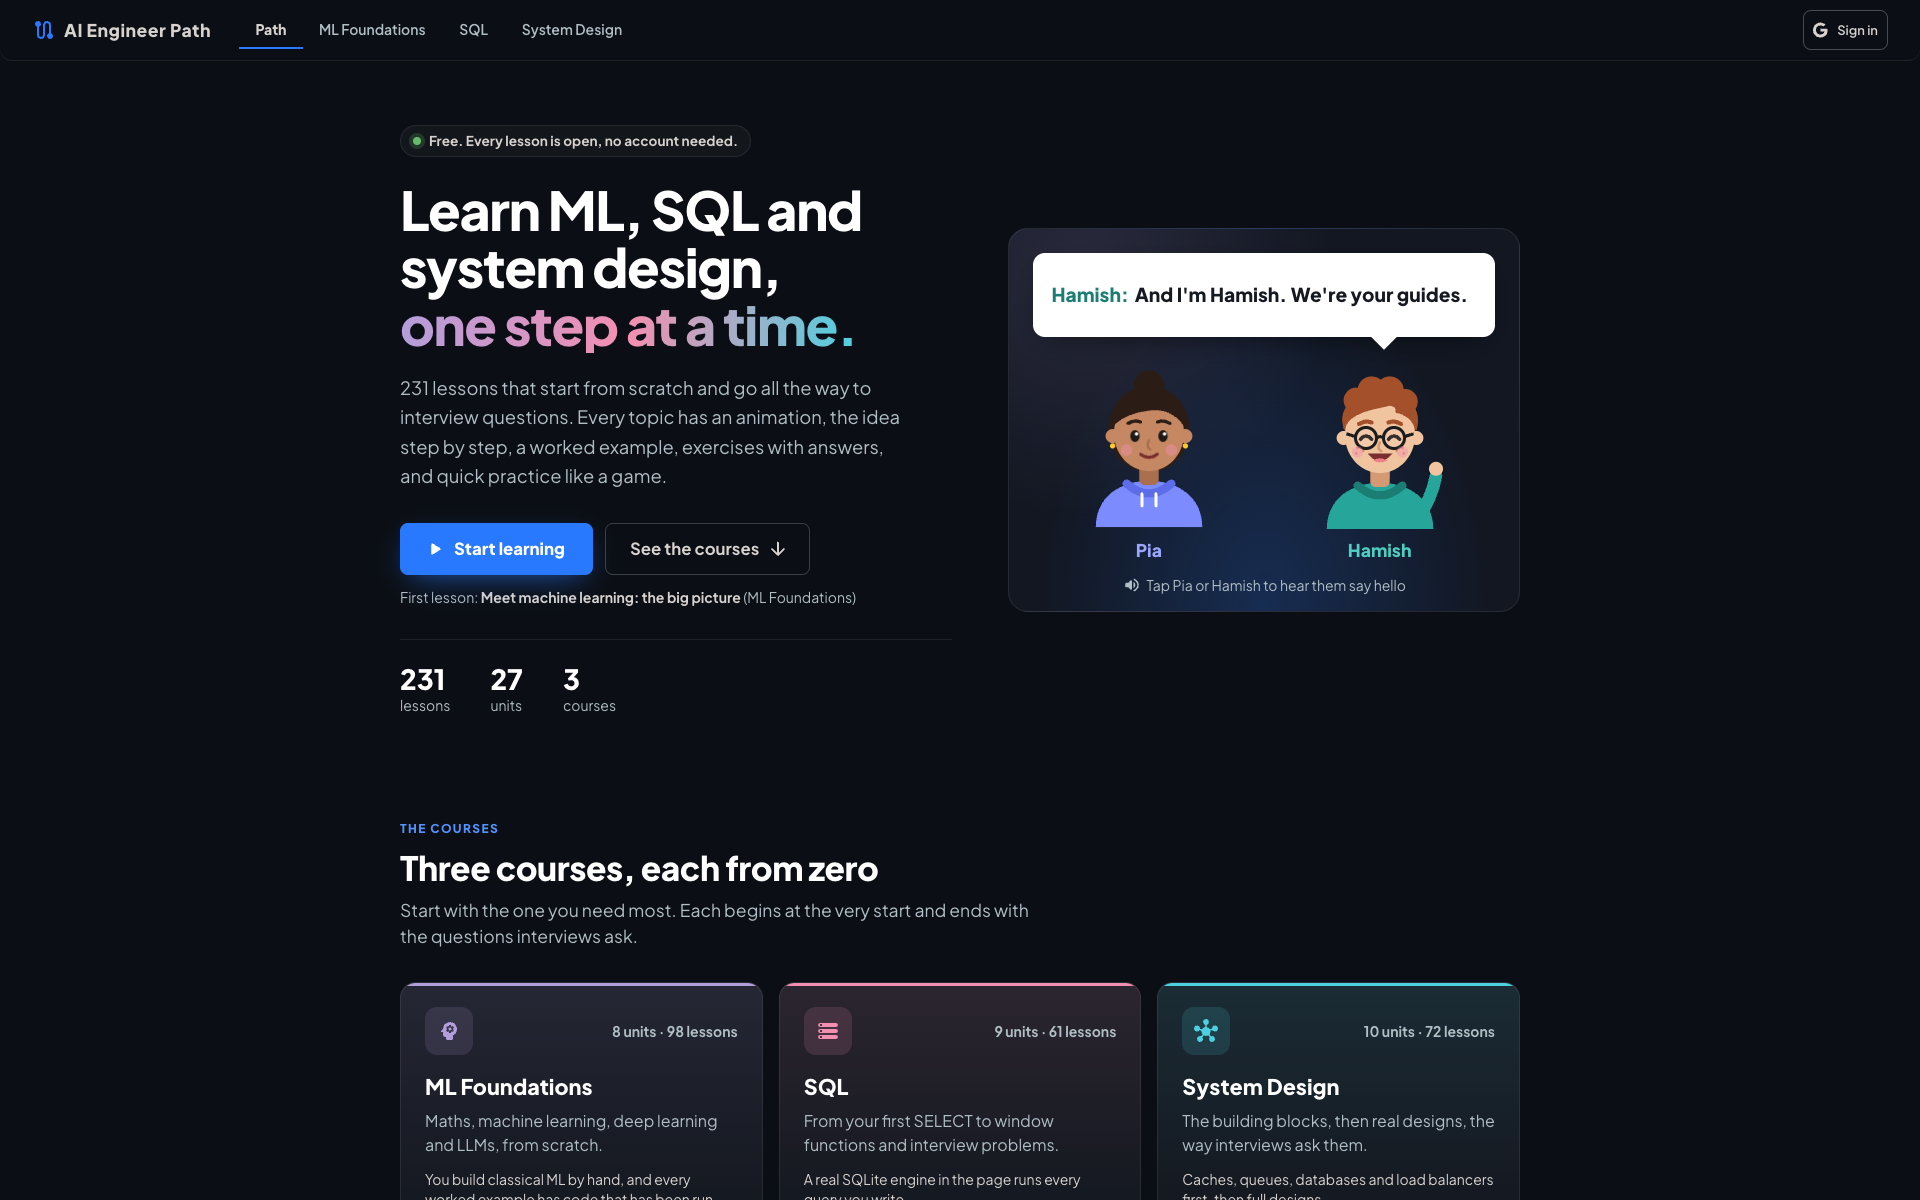
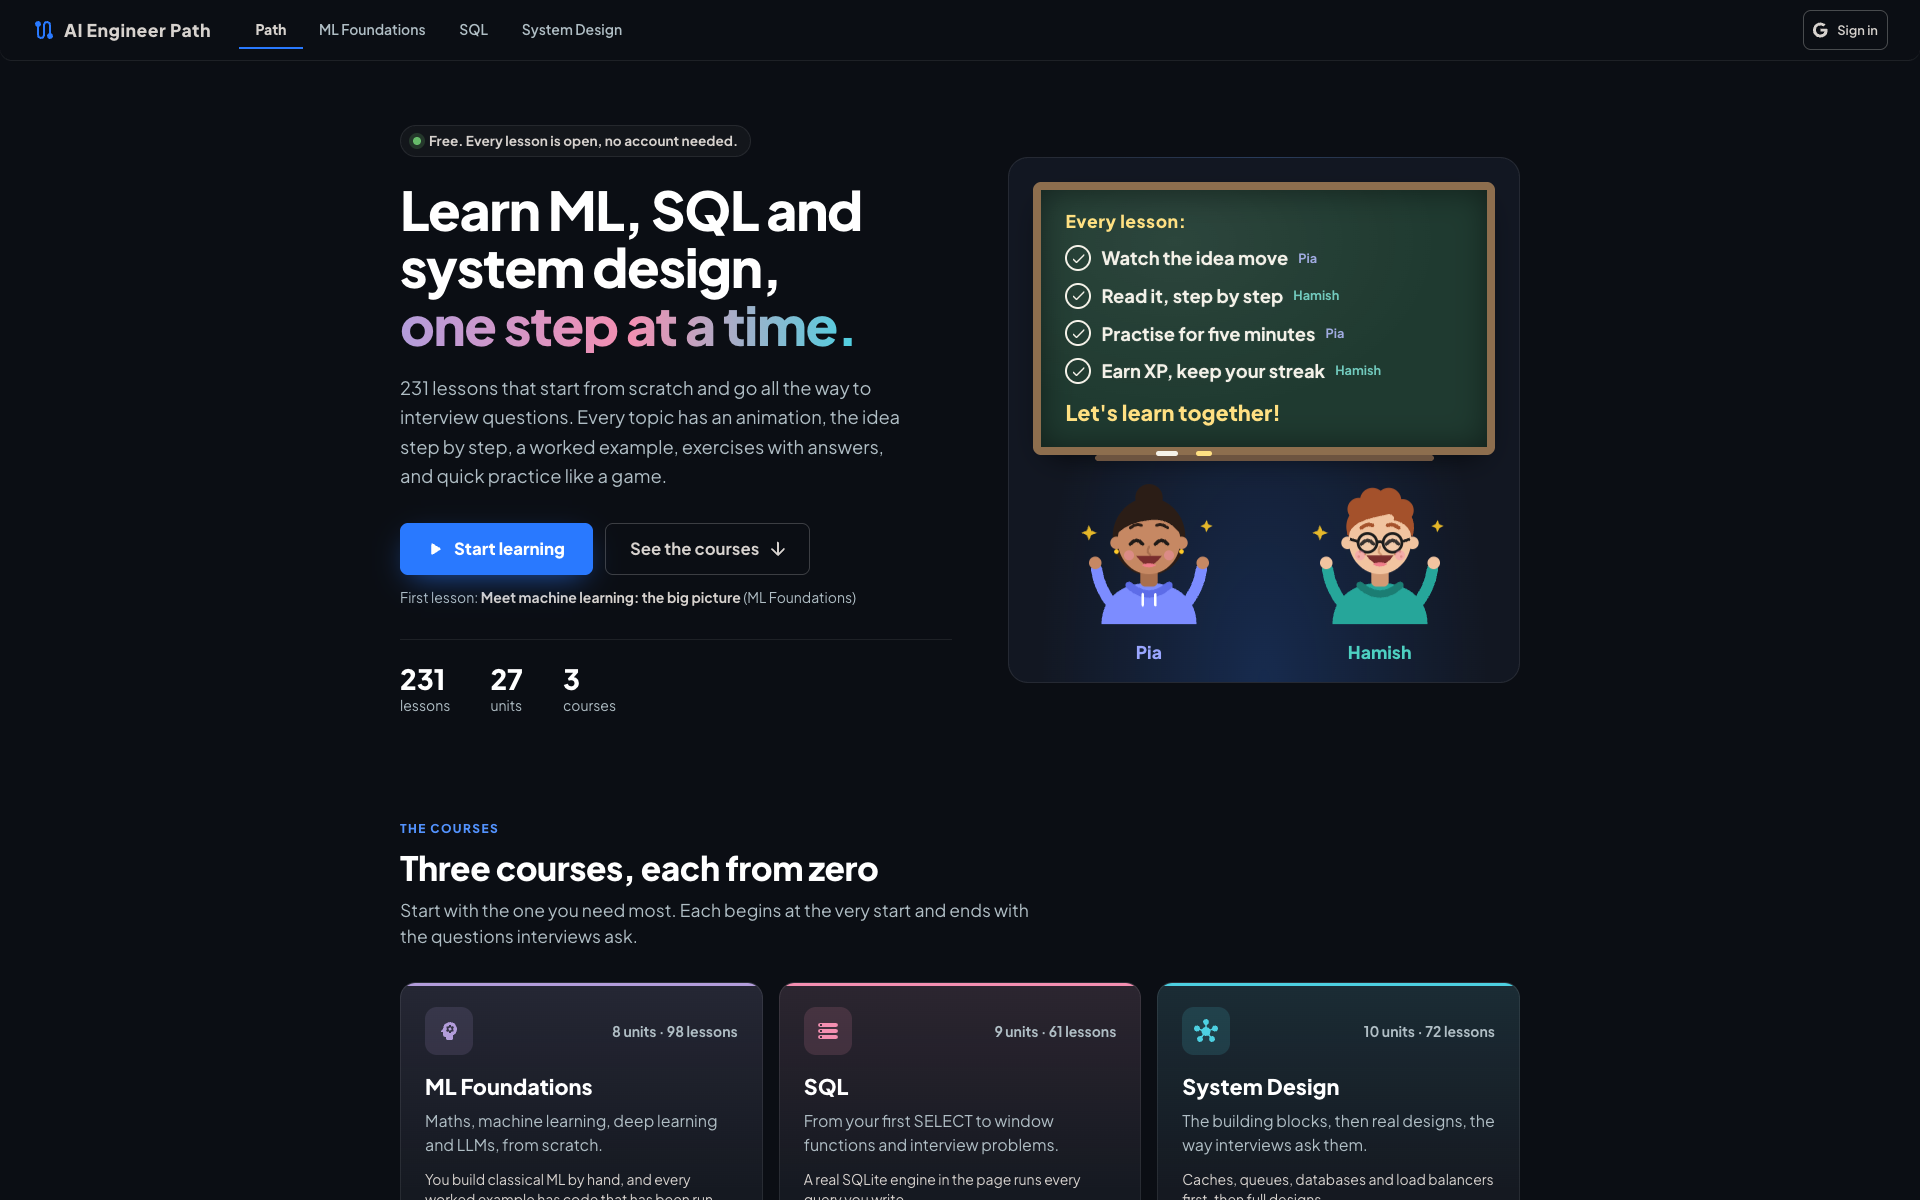
Front page: guides teach at a chalkboard

Changed region(s): [[0.5312, 0.1233, 0.7812, 0.5858]]

diff --git a/src/components/app/GuidesScene.tsx b/src/components/app/GuidesScene.tsx
@@ -1,134 +1,159 @@
-// The front page's guides: Pia and Hamish take turns to say what the site is,
-// each line filling their speech bubble while their mouth moves. Tap either to
-// hear them say hello in their own voice. Still, with the whole first line
-// shown, for anyone who asks their device for less motion.
+// The front page's guides, teaching at a chalkboard. Pia and Hamish take turns:
+// as each one talks (mouth moving, arm up to the board), their point is written
+// on the board in chalk. Then both cheer, the board is wiped, and it starts again.
+//
+// It tells its story without sound (browsers only play sound after a tap), but
+// tapping a guide still plays their hello. Anyone who asks their device for
+// less motion sees the whole board at once, with the guides still.
 
 import { useEffect, useState } from 'react';
 import { Box, ButtonBase, Stack, Typography } from '@mui/material';
-import VolumeUpRoundedIcon from '@mui/icons-material/VolumeUpRounded';
+import CheckRoundedIcon from '@mui/icons-material/CheckRounded';
 import Mascot, { type Mood } from '../practice/Mascot';
 import { GUIDE_NAMES, type Guide } from '../practice/guides';
 import { mouthOnly, primeVoice, say, stopSpeaking } from '../practice/voice';
 import { GREETING_LINES } from '../../practice/lines';
 
-const SCRIPT: { guide: Guide; text: string }[] = [
-    { guide: 'pia', text: "Hi! I'm Pia." },
-    { guide: 'hamish', text: "And I'm Hamish. We're your guides." },
-    { guide: 'pia', text: 'Every lesson starts with the idea, one step at a time.' },
-    { guide: 'hamish', text: 'Then five minutes of practice. Hearts, XP and a streak!' },
-    { guide: 'pia', text: "Ready? Let's learn together!" },
+/** Each point on the board, and who teaches it. */
+const POINTS: { guide: Guide; text: string }[] = [
+    { guide: 'pia', text: 'Watch the idea move' },
+    { guide: 'hamish', text: 'Read it, step by step' },
+    { guide: 'pia', text: 'Practise for five minutes' },
+    { guide: 'hamish', text: 'Earn XP, keep your streak' },
 ];
+const FINALE = POINTS.length;
 
-const TYPE_MS = 32;
-const HOLD_MS = 2200;
+const WRITE_MS = 1100;
+const HOLD_MS = 1500;
+const CHEER_MS = 2800;
+const WIPE_MS = 600;
+
+const CHALK = '#f4f1e8';
+const CHALK_YELLOW = '#ffe082';
+const BOARD = '#1f3a30';
+const FRAME = '#8d6e4e';
 
 const lessMotion = () => typeof window !== 'undefined' && !!window.matchMedia?.('(prefers-reduced-motion: reduce)').matches;
 
+/** Chalk appearing left to right, as if written. */
+const writing = {
+    animation: `chalkWrite ${WRITE_MS}ms ease-out both`,
+    '@keyframes chalkWrite': { from: { clipPath: 'inset(0 100% 0 0)' }, to: { clipPath: 'inset(0 0 0 0)' } },
+};
+
 const GuidesScene = () => {
     const [still] = useState(lessMotion);
-    const [line, setLine] = useState(0);
-    const [shown, setShown] = useState(still ? SCRIPT[0].text.length : 0);
-    /** A guide saying hello out loud, after a tap: the bubbles wait. */
-    const [greeting, setGreeting] = useState<Guide | null>(null);
-    const current = greeting ? { guide: greeting, text: GREETING_LINES[greeting] } : SCRIPT[line];
-    const last = !greeting && line === SCRIPT.length - 1;
+    /** 0 to 3: the point being written; 4: both cheer. */
+    const [step, setStep] = useState(still ? FINALE : 0);
+    const [wiping, setWiping] = useState(false);
 
-    // Each line fills in letter by letter while the guide's mouth moves, then waits, then the next.
     useEffect(() => {
-        if (still || greeting) return;
-        const { guide, text } = SCRIPT[line];
-        mouthOnly(guide, text.length * TYPE_MS + 150);
-        let count = 0;
-        let next = 0;
-        const typing = window.setInterval(() => {
-            count += 1;
-            setShown(count);
-            if (count >= text.length) {
-                window.clearInterval(typing);
-                next = window.setTimeout(() => {
-                    setShown(0);
-                    setLine(at => (at + 1) % SCRIPT.length);
-                }, line === SCRIPT.length - 1 ? HOLD_MS * 2 : HOLD_MS);
-            }
-        }, TYPE_MS);
-        return () => {
-            window.clearInterval(typing);
-            window.clearTimeout(next);
-        };
-    }, [line, still, greeting]);
+        if (still) return;
+        const timers: number[] = [];
+        if (step < FINALE) {
+            mouthOnly(POINTS[step].guide, WRITE_MS + 250);
+            timers.push(window.setTimeout(() => setStep(step + 1), WRITE_MS + HOLD_MS));
+        } else {
+            mouthOnly('pia', 1300);
+            timers.push(window.setTimeout(() => setWiping(true), CHEER_MS));
+            timers.push(
+                window.setTimeout(() => {
+                    setWiping(false);
+                    setStep(0);
+                }, CHEER_MS + WIPE_MS),
+            );
+        }
+        return () => timers.forEach(timer => window.clearTimeout(timer));
+    }, [step, still]);
 
     useEffect(() => stopSpeaking, []);
 
     const hello = (guide: Guide) => {
-        // The tap lets the page play sound (iPhones need it), then the guide says hello.
+        // The tap lets the page play sound (browsers need one), then the guide says hello.
         primeVoice();
-        setGreeting(guide);
         say(GREETING_LINES[guide], guide);
-        window.setTimeout(() => setGreeting(at => (at === guide ? null : at)), 5200);
     };
 
-    const moodOf = (guide: Guide): Mood => (last ? 'cheer' : current.guide === guide ? 'happy' : 'idle');
-    const text = greeting || still ? current.text : current.text.slice(0, shown);
+    const teacher = step < FINALE ? POINTS[step].guide : null;
+    const moodOf = (guide: Guide): Mood => (step === FINALE ? 'cheer' : teacher === guide ? 'happy' : 'idle');
+    const written = still ? POINTS.length : Math.min(step + 1, POINTS.length);
 
     return (
         <Box
             role="group"
-            aria-label="Pia and Hamish, your guides"
+            aria-label="Pia and Hamish, your guides, at a chalkboard"
             sx={{
-                position: 'relative',
                 borderRadius: 5,
                 px: { xs: 2, sm: 3 },
                 pt: { xs: 2.5, sm: 3 },
-                pb: 2,
+                pb: 1.5,
                 border: '1px solid rgba(255,255,255,0.08)',
-                background: 'radial-gradient(ellipse at 50% 100%, rgba(41,121,255,0.22), transparent 62%), radial-gradient(circle at 15% 10%, rgba(179,157,219,0.14), transparent 45%), #121722',
-                overflow: 'hidden',
+                background: 'radial-gradient(ellipse at 50% 100%, rgba(41,121,255,0.2), transparent 62%), #121722',
             }}
         >
-            {/* The speech bubble, its tail pointing at whoever is talking. */}
+            {/* The chalkboard. */}
             <Box
-                aria-hidden
                 sx={{
                     position: 'relative',
-                    minHeight: { xs: 76, sm: 84 },
-                    display: 'flex',
-                    alignItems: 'center',
-                    px: 2.25,
-                    py: 1.5,
-                    borderRadius: 3,
-                    bgcolor: '#fff',
-                    color: '#151921',
-                    boxShadow: '0 10px 30px -12px rgba(0,0,0,0.6)',
-                    '&::after': {
-                        content: '""',
-                        position: 'absolute',
-                        bottom: -9,
-                        left: current.guide === 'pia' ? '22%' : 'auto',
-                        right: current.guide === 'hamish' ? '22%' : 'auto',
-                        width: 18,
-                        height: 18,
-                        bgcolor: '#fff',
-                        transform: 'rotate(45deg)',
-                        transition: 'left 0.3s, right 0.3s',
-                    },
+                    borderRadius: 2,
+                    border: `8px solid ${FRAME}`,
+                    boxShadow: 'inset 0 0 30px rgba(0,0,0,0.45), 0 12px 30px -14px rgba(0,0,0,0.8)',
+                    background: `radial-gradient(ellipse at 30% 20%, rgba(255,255,255,0.06), transparent 60%), ${BOARD}`,
+                    px: { xs: 2, sm: 3 },
+                    py: { xs: 1.75, sm: 2.25 },
+                    opacity: wiping ? 0 : 1,
+                    transition: `opacity ${WIPE_MS}ms`,
                 }}
             >
-                <Typography sx={{ fontWeight: 800, fontSize: { xs: '1.05rem', sm: '1.2rem' }, lineHeight: 1.35 }}>
-                    <Box component="span" sx={{ color: current.guide === 'pia' ? '#5d6ce8' : '#1b7d73', mr: 0.75 }}>
-                        {GUIDE_NAMES[current.guide]}:
-                    </Box>
-                    {text}
-                    {!greeting && !still && shown < current.text.length && (
-                        <Box component="span" sx={{ display: 'inline-block', width: '0.5ch', ml: 0.25, borderBottom: '2px solid #151921', animation: 'caret 0.8s steps(1) infinite', '@keyframes caret': { '50%': { opacity: 0 } } }} />
-                    )}
+                <Typography sx={{ color: CHALK_YELLOW, fontWeight: 800, fontSize: { xs: '1rem', sm: '1.1rem' }, letterSpacing: 0.5, mb: 1.25 }}>
+                    Every lesson:
                 </Typography>
+                <Box component="ol" sx={{ listStyle: 'none', m: 0, p: 0, display: 'grid', gap: { xs: 1, sm: 1.25 } }}>
+                    {/* Every line keeps its place from the start (hidden until written), so nothing below moves. */}
+                    {POINTS.map((point, i) => (
+                        <Stack
+                            key={`${point.text}-${i < written ? 'written' : 'blank'}`}
+                            component="li"
+                            direction="row"
+                            spacing={1.25}
+                            alignItems="center"
+                            sx={{ visibility: i < written ? 'visible' : 'hidden', ...(still || i !== step ? {} : writing) }}
+                        >
+                            <Box sx={{ width: 26, height: 26, flexShrink: 0, borderRadius: '50%', border: `2px solid ${CHALK}`, display: 'grid', placeItems: 'center', color: CHALK, fontWeight: 800, fontSize: '0.85rem' }}>
+                                {step > i || still ? <CheckRoundedIcon sx={{ fontSize: 17 }} /> : i + 1}
+                            </Box>
+                            <Typography sx={{ color: CHALK, fontWeight: 700, fontSize: { xs: '1.05rem', sm: '1.15rem' }, textShadow: '0 0 1px rgba(255,255,255,0.4)' }}>
+                                {point.text}
+                            </Typography>
+                            <Typography sx={{ color: point.guide === 'pia' ? '#b6beff' : '#80e3d6', fontSize: '0.8rem', fontWeight: 700, opacity: 0.85, display: { xs: 'none', sm: 'block' } }}>
+                                {GUIDE_NAMES[point.guide]}
+                            </Typography>
+                        </Stack>
+                    ))}
+                </Box>
+                <Typography
+                    key={step === FINALE ? 'finale' : 'waiting'}
+                    aria-hidden={step !== FINALE && !still}
+                    sx={{
+                        mt: { xs: 1.25, sm: 1.5 },
+                        color: CHALK_YELLOW,
+                        fontWeight: 800,
+                        fontSize: { xs: '1.2rem', sm: '1.35rem' },
+                        visibility: step === FINALE || still ? 'visible' : 'hidden',
+                        ...(step === FINALE && !still ? writing : {}),
+                    }}
+                >
+                    Let&apos;s learn together!
+                </Typography>
+                {/* The chalk tray. */}
+                <Box sx={{ position: 'absolute', left: '12%', right: '12%', bottom: -14, height: 6, borderRadius: 1, bgcolor: '#6d5440' }}>
+                    <Box sx={{ position: 'absolute', left: '18%', top: -4, width: 22, height: 5, borderRadius: 1, bgcolor: CHALK }} />
+                    <Box sx={{ position: 'absolute', left: '30%', top: -4, width: 16, height: 5, borderRadius: 1, bgcolor: CHALK_YELLOW }} />
+                </Box>
             </Box>
-            {/* For screen readers: who they are, once (the bubbles above change every few seconds). */}
-            <Typography sx={{ position: 'absolute', width: 1, height: 1, overflow: 'hidden', clip: 'rect(0 0 0 0)' }}>
-                Pia and Hamish are your guides. They teach each lesson's idea, then ask quick practice questions.
-            </Typography>
 
-            <Stack direction="row" justifyContent="space-around" alignItems="flex-end" sx={{ mt: { xs: 2, sm: 2.5 } }}>
+            {/* The guides, under the board: tap one to hear them say hello. */}
+            <Stack direction="row" justifyContent="space-around" alignItems="flex-end" sx={{ mt: { xs: 2.5, sm: 3 } }}>
                 {(['pia', 'hamish'] as const).map(guide => (
                     <ButtonBase
                         key={guide}
@@ -137,18 +162,14 @@ const GuidesScene = () => {
                         sx={{ flexDirection: 'column', borderRadius: 4, p: 0.5, '&:focus-visible': { outline: '3px solid #90caf9' } }}
                     >
                         <Box sx={{ display: { xs: 'none', sm: 'block' } }}>
-                            <Mascot who={guide} mood={moodOf(guide)} size={168} />
+                            <Mascot who={guide} mood={moodOf(guide)} size={150} />
                         </Box>
                         <Box sx={{ display: { xs: 'block', sm: 'none' } }}>
-                            <Mascot who={guide} mood={moodOf(guide)} size={124} />
+                            <Mascot who={guide} mood={moodOf(guide)} size={118} />
                         </Box>
-                        <Typography sx={{ mt: 0.5, fontWeight: 800, color: guide === 'pia' ? '#9aa6ff' : '#4dd0c1' }}>{GUIDE_NAMES[guide]}</Typography>
+                        <Typography sx={{ mt: 0.25, fontWeight: 800, color: guide === 'pia' ? '#9aa6ff' : '#4dd0c1' }}>{GUIDE_NAMES[guide]}</Typography>
                     </ButtonBase>
                 ))}
-            </Stack>
-            <Stack direction="row" spacing={0.75} alignItems="center" justifyContent="center" sx={{ mt: 1, color: 'text.secondary' }}>
-                <VolumeUpRoundedIcon sx={{ fontSize: 18 }} />
-                <Typography variant="body2">Tap Pia or Hamish to hear them say hello</Typography>
             </Stack>
         </Box>
     );
